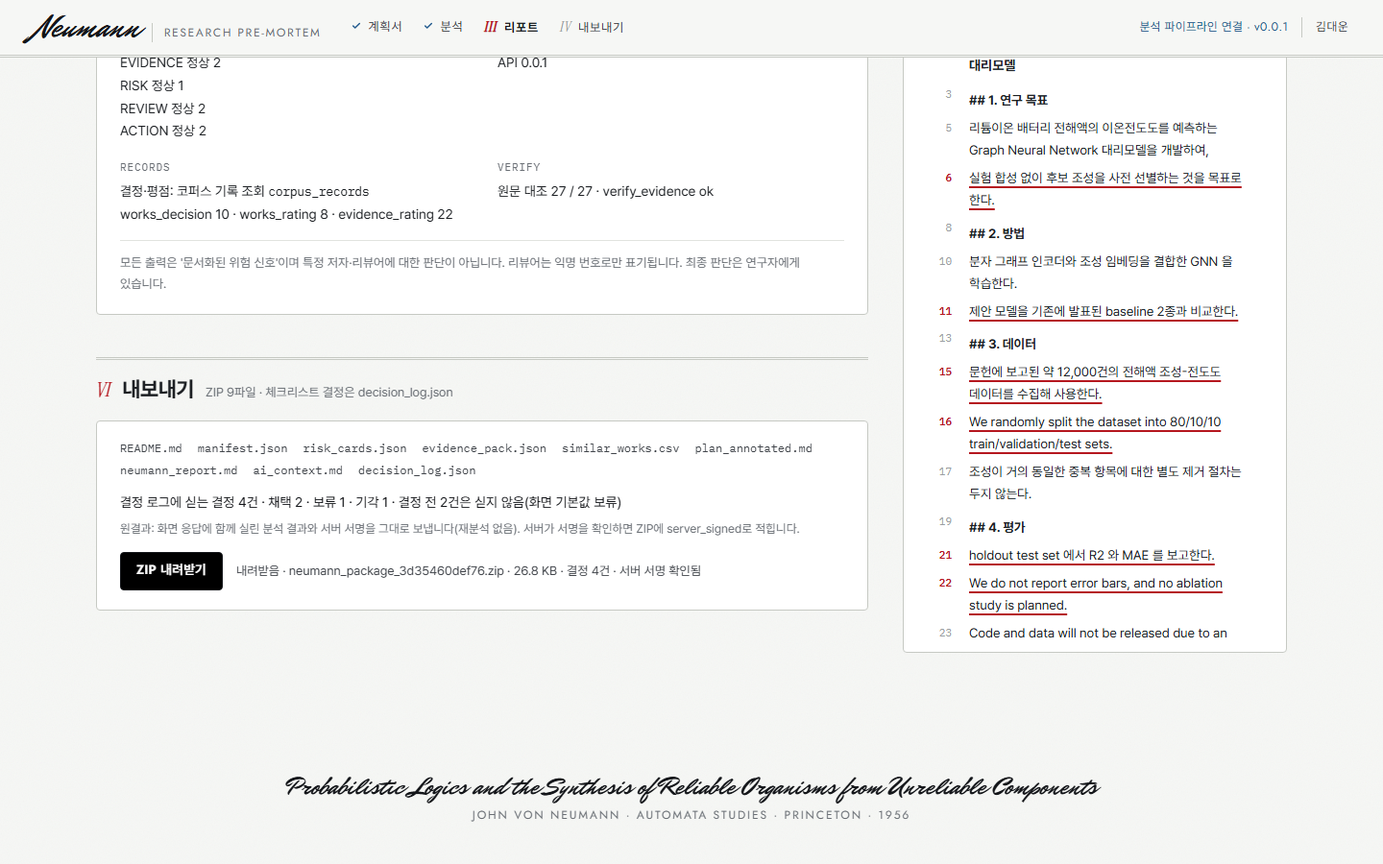
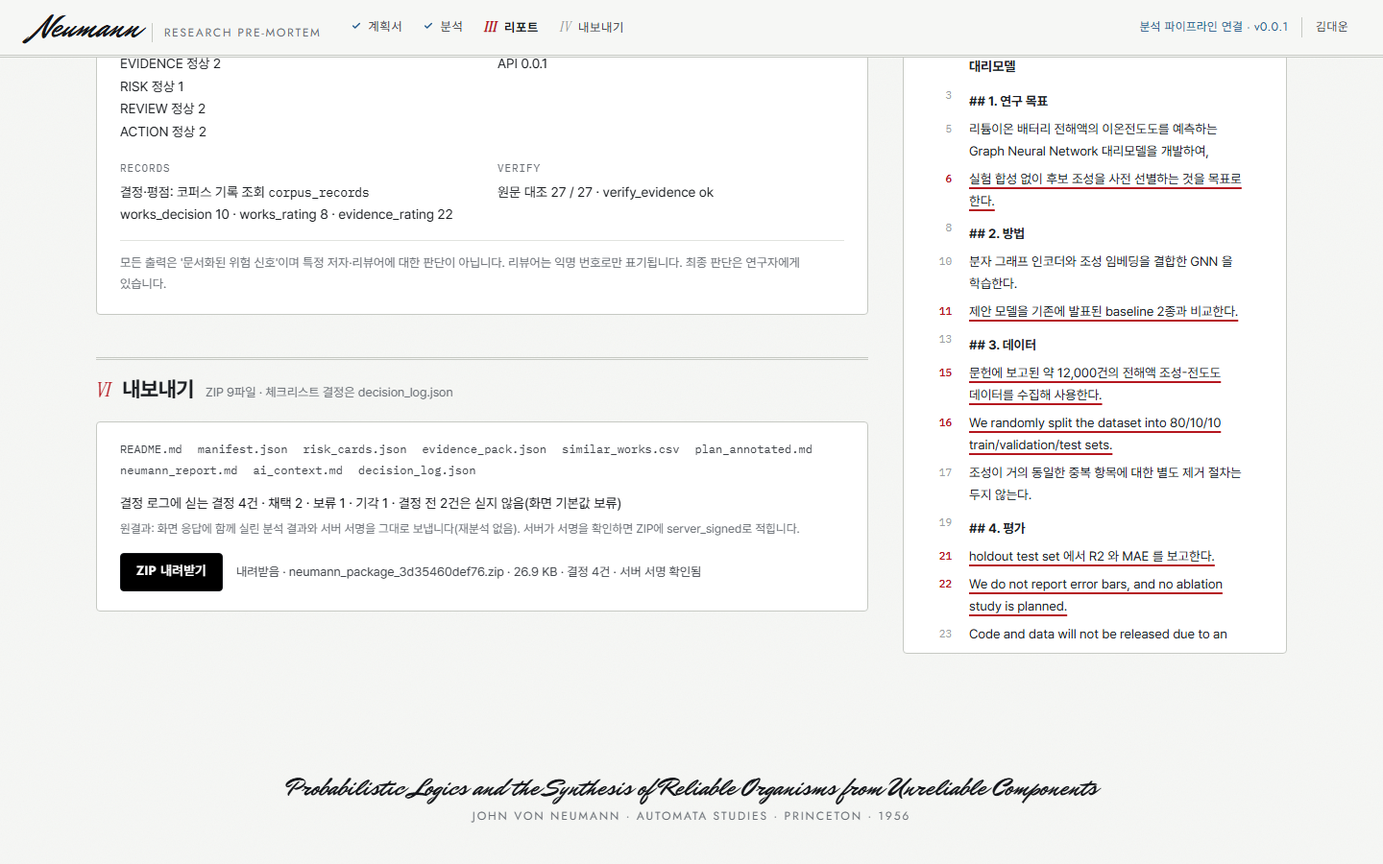
[E4-L2f] generic payload 서명 보강과 내보내기 출처 회귀 확인
targeted: 146 passed, 2 skipped; R1-R4/M10: 12 passed; mock browser passed; full verify pending PM

builder: codex-gpt-6.1-sol

diff --git a/tests/e4/test_payload_signing.py b/tests/e4/test_payload_signing.py
@@ -1,0 +1,100 @@
+"""Regression checks for revision provenance and signature domain separation."""
+
+import hashlib
+import hmac
+import json
+import math
+from pathlib import Path
+
+import pytest
+
+from neumann.api import signing
+from neumann.api.signing import sign_payload, sign_result, verify_payload, verify_result
+
+
+def test_revision_signature_preserves_browser_json_roundtrip():
+    payload = {"plan_id": "plan", "edit": {"text": "근거에 따른 수정", "line": 1.0}}
+    sig = sign_payload("revision", payload)
+    assert verify_payload("revision", {"edit": {"line": 1, "text": "근거에 따른 수정"}, "plan_id": "plan"}, sig)
+
+
+def test_signature_rejects_tampering_and_domain_substitution():
+    payload = {"proposed_text": "원문", "plan_id": "plan"}
+    sig = sign_payload("revision", payload)
+    assert not verify_payload("revision", {**payload, "proposed_text": "위조"}, sig)
+    assert not verify_payload("revised-plan", payload, sig)
+    assert not verify_payload("result", payload, sig)
+    assert not verify_result(payload, sig)
+
+
+@pytest.mark.parametrize("sig", [None, 12, "v1." + "가" * 64, "v1." + "F" * 64, "v2." + "0" * 64])
+def test_malformed_signature_never_raises(sig):
+    assert not verify_payload("revision", {"text": "내용"}, sig)
+
+
+@pytest.mark.parametrize("kind", ["result", "", "../revision", "REVISION", "수정"])
+def test_reserved_or_invalid_domain_cannot_be_signed(kind):
+    with pytest.raises(ValueError):
+        sign_payload(kind, {"text": "내용"})
+
+
+@pytest.mark.parametrize("bad", [math.nan, math.inf, -math.inf, object()])
+def test_invalid_payload_is_not_authenticated(bad):
+    sig = sign_payload("revision", {"text": "내용"})
+    assert not verify_payload("revision", {"value": bad}, sig)
+
+
+def test_non_mapping_payload_is_not_authenticated():
+    sig = sign_payload("revision", {"text": "내용"})
+    assert not verify_payload("revision", ["내용"], sig)
+
+
+@pytest.mark.parametrize("payload", [{1: "내용"}, {"edit": {1: "내용"}}, {"edits": [{1: "내용"}]}])
+def test_non_string_keys_cannot_alias_json_keys(payload):
+    # JSON keys are strings. Coercion must not authenticate a different Python mapping.
+    normal = json.loads(json.dumps(payload, ensure_ascii=False))
+    sig = sign_payload("revision", normal)
+    assert not verify_payload("revision", payload, sig)
+    with pytest.raises(TypeError):
+        sign_payload("revision", payload)
+
+
+def test_valid_result_and_generic_payload_signatures_are_separate():
+    payload = json.loads((Path(__file__).parents[1] / "fixtures" / "premortem_result.json").read_text(encoding="utf-8"))
+    result_sig = sign_result(payload)
+    revision_sig = sign_payload("revision", payload)
+    assert verify_result(payload, result_sig)
+    assert verify_payload("revision", payload, revision_sig)
+    assert result_sig != revision_sig
+    assert not verify_result(payload, revision_sig)
+    assert not verify_payload("revision", payload, result_sig)
+
+
+def test_payload_signature_uses_versioned_domain_and_shared_key(monkeypatch):
+    test_key = b"unit-test-generic-signing-key"
+    monkeypatch.setattr(signing, "_KEY", test_key)
+    payload = {"text": "근거", "line": 1.0}
+    body = 'neumann-revision-v1\n{"line":1,"text":"근거"}'.encode("utf-8")
+    assert sign_payload("revision", payload) == "v1." + hmac.new(test_key, body, hashlib.sha256).hexdigest()
+
+
+def test_generic_signature_key_rotation_invalidates_old_payload(monkeypatch):
+    payload = {"edit": {"text": "내용"}}
+    monkeypatch.setattr(signing, "_KEY", b"unit-test-first-signing-key")
+    sig = sign_payload("revision", payload)
+    monkeypatch.setattr(signing, "_KEY", b"unit-test-second-signing-key")
+    assert not verify_payload("revision", payload, sig)
+    assert verify_payload("revision", payload, sign_payload("revision", payload))
+
+
+@pytest.mark.parametrize("value, changed", [(1.25, 1.26), (True, 1), (None, ""), ([1, 2], [2, 1])])
+def test_payload_values_are_not_erased_by_canonicalisation(value, changed):
+    sig = sign_payload("revision", {"value": value})
+    assert not verify_payload("revision", {"value": changed}, sig)
+
+
+def test_cyclic_payload_fails_closed():
+    payload = {}
+    payload["self"] = payload
+    sig = sign_payload("revision", {"text": "내용"})
+    assert not verify_payload("revision", payload, sig)

diff --git a/tests/e4/test_export_ui.py b/tests/e4/test_export_ui.py
@@ -45,7 +45,7 @@ OUT = ROOT / "docs" / "reports"
 PLAN = ROOT / "tests" / "fixtures" / "plans" / "plan.md"
 SHOT = "E4-L2f_export.png"
 DEFAULT_PORT = 8149
-FORBIDDEN_PORTS = {8010, 8020}
+FORBIDDEN_PORTS = {8010, 8020, 8099}
 VW, VH = 1440, 900
 LOCAL_HOSTS = {"127.0.0.1", "localhost", "::1", "[::1]"}
 MEMO = "표본 크기 근거 보강 · 담당 a.kim@example.org"
@@ -191,12 +191,12 @@ def start_server(port: int) -> subprocess.Popen:
     import httpx
 
     if port in FORBIDDEN_PORTS:
-        raise SystemExit(f"{port}은 쓰지 않는다(8010·8020 금지)")
+        raise SystemExit(f"{port}은 쓰지 않는다(8010·8020·8099 금지)")
     if not _port_free(port):
         raise SystemExit(f"포트 {port}가 이미 쓰이고 있다")
     env = {k: v for k, v in os.environ.items()
            if k not in {"OPENAI_API_KEY", "NEUMANN_LIVE_LLM_OK", "NEUMANN_LIVE_TESTS", "NEUMANN_ALLOW_ASTRA"}}
-    env.update(PYTHONIOENCODING="utf-8", NEUMANN_LLM_PROVIDER="mock",
+    env.update(PYTHONIOENCODING="utf-8", NEUMANN_LLM_PROVIDER="mock", NEUMANN_LIVE_TESTS="0",
                PYTHONPATH=os.pathsep.join([str(ROOT / "src"), str(ROOT)]))
     proc = subprocess.Popen([sys.executable, "-m", "uvicorn", "neumann.api.main:app", "--host", "127.0.0.1",
                              "--port", str(port), "--log-level", "warning"], cwd=ROOT, env=env)
@@ -353,7 +353,8 @@ def run_ui(base: str, out: Path, tmp: Path) -> dict:
             page.wait_for_timeout(200)
             out.mkdir(parents=True, exist_ok=True)
             page.screenshot(path=str(out / SHOT))
-            info["screenshot"] = str((out / SHOT).relative_to(ROOT)).replace("\\", "/")
+            shot_path = (out / SHOT).resolve()
+            info["screenshot"] = str(shot_path.relative_to(ROOT) if shot_path.is_relative_to(ROOT) else shot_path).replace("\\", "/")
 
             with zipfile.ZipFile(zpath) as zf:
                 names = zf.namelist()
@@ -381,6 +382,27 @@ def run_ui(base: str, out: Path, tmp: Path) -> dict:
             assert "## 결정 로그" in report and "행동 `C2`: 기각" in report and "행동 `C3`: 채택" in report
             assert "a.kim@example.org" not in "".join(f.decode("utf-8", "replace") for f in files.values())
             assert not w.errors, w.errors
+
+            # 비ASCII 서명도 실제 서버에서 ZIP을 받고, 화면과 파일에 미확인 출처를 표시한다.
+            def invalid_signature(route, request):
+                body = request.post_data_json
+                body["result_sig"] = "v1." + "é" * 64
+                route.continue_(post_data=json.dumps(body, ensure_ascii=False))
+
+            page.route("**/premortem/package", invalid_signature)
+            with page.expect_download(timeout=120_000) as unverified_dl:
+                page.click("#btnExport")
+            unverified_path = tmp / "unverified.zip"
+            unverified_dl.value.save_as(unverified_path)
+            page.wait_for_function("document.getElementById('expMsg').textContent.indexOf('서버 서명 확인 안 됨') >= 0")
+            info["unverified_msg"] = page.locator("#expMsg").inner_text()
+            with zipfile.ZipFile(unverified_path) as zf:
+                assert json.loads(zf.read("manifest.json"))["result_origin"] == "client_submitted_unverified"
+                assert zf.read("README.md").decode("utf-8").startswith("**주의: 서버가 분석·서명한 결과가 아님.")
+            assert w.posts == ["/premortem/jobs", "/premortem/package", "/premortem/package"], w.posts
+            info["posts_with_unverified"] = list(w.posts)
+            assert not w.errors, w.errors
+            page.unroute("**/premortem/package")
 
             # 서버 오류 문구: textContent로(태그를 만들지 않는다)
             w.allow_4xx = True

diff --git a/src/neumann/api/signing.py b/src/neumann/api/signing.py
@@ -58,7 +58,7 @@ def reset_key() -> None:
     _KEY = _load_key()
 
 
-def _norm(v: Any) -> Any:
+def _norm(v: Any, *, string_keys: bool = False) -> Any:
     if isinstance(v, bool) or v is None or isinstance(v, (int, str)):
         return v
     if isinstance(v, float):
@@ -66,9 +66,11 @@ def _norm(v: Any) -> Any:
             raise ValueError("NaN·무한대는 서명하지 않는다")
         return int(v) if v.is_integer() and abs(v) < 2**53 else v
     if isinstance(v, Mapping):
-        return {str(k): _norm(x) for k, x in v.items()}
+        if string_keys and any(not isinstance(k, str) for k in v):
+            raise TypeError("signed payload keys must be strings")
+        return {str(k): _norm(x, string_keys=string_keys) for k, x in v.items()}
     if isinstance(v, (list, tuple)):
-        return [_norm(x) for x in v]
+        return [_norm(x, string_keys=string_keys) for x in v]
     raise TypeError(f"서명할 수 없는 값: {type(v).__name__}")
 
 
@@ -101,4 +103,36 @@ def verify_result(result: Any, sig: Any) -> bool:
     return hmac.compare_digest(expected.encode("ascii"), sig[len(SIG_VERSION) + 1:].encode("ascii"))
 
 
-__all__ = ["KEY_ENV", "canonical_bytes", "reset_key", "sign_result", "verify_result"]
+def _payload_bytes(kind: str, data: Mapping[str, Any]) -> bytes:
+    """Separate revision signatures from the validated result signature domain."""
+    if not isinstance(kind, str) or not re.fullmatch(r"[a-z][a-z0-9-]{0,31}", kind, re.ASCII) or kind == "result":
+        raise ValueError("invalid payload signature kind")
+    if not isinstance(data, Mapping):
+        raise TypeError("signed payload must be a mapping")
+    body = json.dumps(_norm(data, string_keys=True), ensure_ascii=False, sort_keys=True, separators=(",", ":"), allow_nan=False)
+    return f"neumann-{kind}-v1\n".encode("ascii") + body.encode("utf-8")
+
+
+def sign_payload(kind: str, data: Mapping[str, Any]) -> str:
+    """Sign validated server output with JSON string keys (including nested objects).
+
+    ``kind`` is a lowercase ASCII domain, up to 32 characters, excluding ``result``.
+    Shares the result key and v1 format, but signatures cannot cross domains.
+    Callers must validate their schema and enforce provenance before signing.
+    """
+    digest = hmac.new(_KEY, _payload_bytes(kind, data), hashlib.sha256).hexdigest()
+    return f"{SIG_VERSION}.{digest}"
+
+
+def verify_payload(kind: str, data: Any, sig: Any) -> bool:
+    """Malformed input, domain substitution and altered payloads fail closed."""
+    if not isinstance(sig, str) or len(sig) != 67 or not sig.isascii() or not _SIG_RE.fullmatch(sig):
+        return False
+    try:
+        expected = sign_payload(kind, data)
+    except (TypeError, ValueError, OverflowError, RecursionError):
+        return False
+    return hmac.compare_digest(expected.encode("ascii"), sig.encode("ascii"))
+
+
+__all__ = ["KEY_ENV", "canonical_bytes", "reset_key", "sign_result", "verify_result", "sign_payload", "verify_payload"]

diff --git a/docs/reports/E4-L2f.md b/docs/reports/E4-L2f.md
@@ -1,7 +1,65 @@
-# E4-L2f 보고서 — 화면 "IV 내보내기" 켜기 (+ 검증 보완 F1~F7)
+# E4-L2f 보고서 — 화면 "IV 내보내기" 켜기 (+ 검증 보완 F1~F7, DISP-1 병합, 서명 재검증 R1~R4·M10)
+
+## Codex 인계 보완 — 2026-10-01 00:09 KST
+
+- 역할: builder. actual model: `gpt-6.1-sol`(최신 PM 배정 지시), 커밋 표기 `builder: codex-gpt-6.1-sol`. 독립 `gpt-6-sol` 검증은 아직 받지 않았다.
+- 작업 트리: `C:/Users/User/Desktop/project_neumann/.claude/worktrees/s2-E4-L2f`, 브랜치 `task/E4-L2f`, 인계 HEAD `c3ff65913cfa2b7ee49b5e05319f932af4ea0e38`.
+- 기존 미커밋 보고서·스크린샷·PM generic 서명 추가분을 보존했다. 이 보고서 아래 Claude 측정은 이전 세션 기록이다. 이번 최종 커밋 해시는 최종 인계 결과에 적는다.
+- 모든 실행은 별도 Python 프로세스에서 `NEUMANN_LLM_PROVIDER=mock`, `NEUMANN_LIVE_TESTS=0`, `NEUMANN_LIVE_LLM_OK` 제거, `OPENAI_API_KEY` 제거(복원 없음), 모델·HF 다운로드 offline 설정. pytest의 공통 conftest가 live 허용 값을 `0`으로 닫는다. 실제 OpenAI API 호출 0. 제품 데이터에 Codex 생성물을 쓰지 않았다.
+- 계획서·공유 결과는 읽기만 했다. 공통 문서·계약·models/config·다른 worktree·실서비스 포트(8010/8020/8099)는 수정·호출하지 않았다. 전체 `scripts/verify.py`는 PM 큐에 남겼다.
+
+### 이번 변경
+
+1. PM이 추가한 `sign_payload(kind, data)` / `verify_payload(kind, data, sig)` 이름과 인자 순서를 유지했다. 키·형식은 기존 결과 서명과 같고 도메인은 `neumann-{kind}-v1\n`으로 분리한다. `result` 도메인은 generic 서명에서 금지한다.
+2. generic 서명에서 중첩 객체의 키도 문자열만 허용한다. 기존 구현은 `{1: "내용"}`과 `{"1": "내용"}`을 같은 값으로 인증했다. 최상위·중첩 객체·목록 속 객체 3건을 먼저 실패시킨 뒤 고쳤다. 기존 `sign_result` 정규화 정책은 유지했다.
+3. generic 검사에 정상 브라우저 JSON 왕복, 값 변조, 유효한 PremortemResult와 양방향 교차 서명 거부, 고정 합성 테스트 키의 HMAC 계산, 키 교체, bool/null/목록 순서 차이, 순환 payload 거부를 보강했다. 합성 테스트 키는 실제 비밀값이 아니다.
+4. 브라우저 검사에서 실제 `/premortem/package`에 비ASCII 서명을 보내 화면·ZIP의 미확인 표시를 확인한다. 시험 서버는 8149만 사용하고 live tests를 명시적으로 0으로 준다. 시험 도우미의 금지 포트에 8099를 추가했다.
+5. 검사기의 `--out`이 저장소 밖 허용 경로도 받도록 경로 표기를 고쳤다. 기존 `docs/reports/E4-L2f_export.png`는 덮어쓰지 않았고, 새 검사의 이미지는 `out/codex/e4-l2f-ui-4730405add3048b0b8d5f7cd32b17b5e/E4-L2f_export.png`에 남겼다. 기존·새 이미지에서 내보내기 표시를 육안 확인했다.
+
+### 이번 완료 기준별 실측
+
+Python은 `C:/Users/User/.venvs/neumann/Scripts/python.exe`다. 아래 pytest는 `python -c` 안에서 위 mock 환경을 먼저 설정하고 `pytest.main([...])`으로 실행했다. 캐시는 `-p no:cacheprovider`, tmp fixture는 쓰기 가능한 `out/codex/e4-l2f-tests-<uuid>`를 `--basetemp`로 지정했다.
+
+| 기준 | 실행한 대상·명령 | 실제 출력·결과 |
+|---|---|---|
+| 인계 상태 확인 | `pytest.main(["tests/e4/test_payload_signing.py", "tests/e4/test_export_ui_sign.py", "-q", "-rs"])` | `53 passed, 1 warning in 1.42s`. 기존 pytest cache 쓰기 권한 경고, 다음 실행부터 캐시 비활성화 |
+| generic 키 충돌 반증 | `tests/e4/test_payload_signing.py -q -p no:cacheprovider`(수정 전) | `3 failed, 25 passed in 0.23s`. 정수 키를 문자열 키와 같은 값으로 인증한 3건 |
+| 최종 대상 회귀 | `tests/e4/test_payload_signing.py tests/e4/test_export_ui_sign.py tests/e4/test_webui_gen_labels.py tests/e4/test_display_generator.py tests/e4/test_export_ui.py tests/e4/test_export.py tests/e4/test_e4_view.py tests/e4/test_view_panel.py -q -rs -p no:cacheprovider --basetemp <새 전용경로>` | `146 passed, 2 skipped in 1.59s`. generic 28건 포함. skip은 별도 화면 샷·브라우저 opt-in이며 내보내기 브라우저는 아래에서 직접 실행 |
+| R1~R4·M10 개별 재측정 | `tests/e4/test_export_ui_sign.py -k "r1 or r2 or r3 or r4 or m10" -v -p no:cacheprovider` | `12 passed, 24 deselected in 0.57s`. R1 7종 모두 200·unverified, R2 짧은 키·재기동, R3 화이트리스트 2건, R4 이미지·링크·단계 이름, M10 정수/실수 정규화 |
+| R3 실제 결과 손실 | 기존 `_real_results()` 파일을 계약 검증하고 `test_r3_real_results_lose_no_keys_and_package_unchanged()` 직접 실행 | `R3 valid_results=29 non_result_files=0 dropped_keys=0 package_bytes_unchanged=True` |
+| 서명·출처·세션·재기동 | 최종 대상 회귀의 `test_export_ui_sign.py` | 정상·브라우저 왕복·jobs 가림 후 확인됨. generator·문구·제목·점수·session_id 변조는 미확인. 인용/plan_id 계약 위반은 422. 무작위 키 재기동·키 교체는 무효, 설정 키 재기동은 유지. ZIP 경고·헤더·키 비노출 검사 통과 |
+| 브라우저 1440×900·8149·mock | `python tests/e4/test_export_ui.py --port 8149 --out C:/Users/User/Desktop/project_neumann/out/codex/e4-l2f-ui-4730405add3048b0b8d5f7cd32b17b5e`(동일 안전 프로세스 래퍼, TEMP/TMP도 전용 경로) | exit 0. 정상 POST `["/premortem/jobs", "/premortem/package"]`, `result_origin=server_signed`, ZIP 9파일, 결정 4건(채택 2·보류 1·기각 1). 비ASCII 서명으로 두 번째 package만 호출: `client_submitted_unverified`·README 첫 줄 경고·화면 `서버 서명 확인 안 됨(서버 재기동 등) · ZIP에 경고가 적힘`. 샘플·원결과 없음 비활성, 422 XSS·429 문구 검사 통과 |
+| 시험 서버 종료 | socket으로 8149만 확인 | `8149_listening=False`. 두 UI 시도 모두 자신이 띄운 서버를 finally에서 종료 |
+| diff 형식 | `git diff --check` | exit 0, 출력 없음 |
+
+실행 중 문제를 숨기지 않는다: 첫 확대 pytest는 시스템 TEMP 접근 거부로 `145 passed, 2 skipped, 1 error`였다. 검사나 기대값을 낮추지 않고 전용 `--basetemp`로 다시 실행해 통과했다. 첫 브라우저는 정상 다운로드 뒤 외부 `--out`의 `relative_to(ROOT)`가 ValueError를 내어 exit 1이었다. 시험 서버 종료를 확인한 뒤 경로 처리만 수정하고 전체 브라우저 시나리오를 재실행해 exit 0을 받았다.
+
+첫 파일 지정 `git add`도 worktree 공용 Git index의 `index.lock` 생성 권한으로 막혔다. 승인된 과제 파일 5개만 같은 명령의 권한 확장으로 다시 지정해 스테이징했다. 훅을 우회하지 않는다.
+
+### E3-L2r 서명 API 인계
+
+```python
+from neumann.api.signing import sign_payload, verify_payload
+
+# 서버가 검증·생성한 JSON 객체에만 서명한다.
+signature = sign_payload("revision", validated_payload)
+ok = verify_payload("revision", returned_payload, signature)
+```
+
+`kind`: `[a-z][a-z0-9-]{0,31}`, `result` 제외. payload는 중첩 키가 모두 문자열인 Mapping이며 JSON 값만 사용한다. 반환 서명은 `v1.<소문자 hex 64자>`. 검증할 때 같은 kind와 payload 전체를 넘긴다. 변조·다른 kind·잘못된 서명·비JSON 값·순환 참조는 False다. 스키마·출처 권한은 호출자가 먼저 검사해야 한다. 여러 서버/재기동 간 유지가 필요하면 기존 `NEUMANN_RESULT_HMAC_KEY` 운영 정책을 따른다. L2r/L1e worktree는 변경하지 않았다.
+
+### 못 한 것·다음(PM 인계 5줄)
+
+1. 최신 전체 `scripts/verify.py`는 미실행이며 PM 검증 큐에서 실행한다.
+2. 독립 `gpt-6-sol` 검증 및 판정은 PM이 배정한다. 기존 verify 보고서는 수정하지 않았다.
+3. E3-L2r에서 위 generic API를 연결하고, 스키마/출처를 검증한 출력에만 서명한다.
+4. main 병합·push·tag 및 공통 HANDOFF/QUEUE/decisions 갱신은 PM이 한다.
+5. 실서비스·실제 OpenAI 확인은 수행하지 않았다. 기존 보고서·스크린샷과 새 검증 산출물 위치를 보존해 인계한다.
+
+## 이전 Claude 구축 기록
 
 빌더: claude-opus-5.5 · 브랜치 `task/E4-L2f` · 모든 실행 `NEUMANN_LLM_PROVIDER=mock`(OpenAI 호출 0), 서버 8149만 사용.
-main 병합: E4-L2d(2bd2b58·03503d6), SEC-4(5ed9b45), 최신 29d96ee까지.
+main 병합: E4-L2d(2bd2b58·03503d6), SEC-4(5ed9b45), DISP-1(4753b3d), 최신 4152c58(SEC-6)까지.
 
 ## 무엇을 했나
 
@@ -32,7 +90,8 @@ main 병합: E4-L2d(2bd2b58·03503d6), SEC-4(5ed9b45), 최신 29d96ee까지.
   - 파이썬에서 `build_package`를 직접 부르면 `"in_process"`다. 호출한 코드가 가진 결과이고 API를 거치지 않는다. 기존 E4-L2a 테스트와 동작은 그대로다.
 - **미확인일 때:**
   - README·neumann_report·ai_context **첫 줄**에 경고를 넣는다: "**주의: 서버가 분석·서명한 결과가 아님.** …"
-  - "제품 LLM이 만든 카드", "원문을 오프셋으로 잘라" 같은 서버 보증 문구를 빼고 "결과에 generator=astra로 적힌 카드. 서버 서명이 없어 … 확인하지 못했다"로 쓴다.
+  - "제품 LLM이 만든 카드", "원문을 오프셋으로 잘라" 같은 서버 보증 문구를 뺀다. 생성 방식은 "LLM(결과에 적힌 표기, 미확인)"처럼 표기만 옮기고(모델명 없음), 설명은 "결과에 적힌 생성 방식 표기일 뿐이다. 서버 서명이 없어 … 확인하지 못했다"로 쓴다(DISP-1 병합 뒤, "generator=astra" 인용 삭제).
+  - README·ai_context의 JSON 설명 줄도 미확인 결과에서는 중립 문구("JSON 값 `generator`·`model`은 요청자가 보낸 결과에 적힌 표기다…")로 바꾼다.
   - evidence_pack의 대조 안내도 "서버 서명이 없는 결과다"로 바꾼다.
 - **jobs 가림과의 관계:** jobs 응답은 뷰 전체에 `serving.scrub_ok_payload`(진단 칸 키·경로 가림)를 한 번 더 건다. 그래서 서명 전에 같은 규칙을 원결과에 먼저 적용한다. 두 번째 가림은 값을 바꾸지 않고 서명이 맞는다(테스트).
 
@@ -40,8 +99,12 @@ main 병합: E4-L2d(2bd2b58·03503d6), SEC-4(5ed9b45), 최신 29d96ee까지.
 
 - **F2:** 첫 판 문구 "계약 밖 값은 실리지 않는다"는 틀렸다. extra=forbid는 최상위 필드만 막고, 자유형 dict 칸(manifest·checklist 항목·expected_review·plan_checks 등)은 검증을 통과한다. 정정한 내용:
   - docstring과 이 보고서를 고쳤다.
-  - manifest(pipeline·precomputed 키 + view가 읽는 모델 키)와 checklist 항목(E3 checklist.py 키 + 별칭)은 **화이트리스트**로 남긴다. 뺀 키 이름은 `_status.export.dropped_keys`에 적는다.
-  - 그 밖의 자유형 칸(expected_review·plan_checks 등)은 결과 값 그대로다.
+  - 자유형 칸 전부를 **화이트리스트**로 거른다(R3로 넓힘): manifest·checklist·expected_review·plan_stats·plan_checks·verification·risk_synthesis·field_prior·research_questions·post_status·plan_side_candidates.
+    - 기준: 실제 결과 29건(사전 계산본 3·백테스트 실행 26)과 mock 실행에서 모은 키, 각 칸을 쓰는 코드(E3·retraction), `PostStatus` 필드, view가 읽는 별칭.
+    - 걸러지는 것은 한 단계(최상위 키, 목록이면 항목 키)다. 그 아래 값은 결과 그대로다.
+    - 채우는 코드가 없는 research_questions·plan_side_candidates는 오는 키를 모두 뺀다.
+  - 뺀 키 이름(값 아님)은 `_status.export.dropped_keys`에 적는다.
+  - 실제 결과 29건은 빠지는 키가 0이고, 패키지 출력(생성 시각 고정)이 바이트 단위로 같다(`test_r3_real_results_lose_no_keys_and_package_unchanged`).
 - **F4:**
   - CSV 문자열 칸(work_id·title·venue·url·cited_by)이 `= + - @`·탭·CR로 시작하면 앞에 `'`를 붙인다.
   - 마크다운 4종에 옮기는 결과 문자열의 `& < >`는 HTML 엔티티로 바꾼다. 렌더하면 같은 글자다. 글자 그대로의 인용은 `evidence_pack.json`에 있다.
@@ -56,16 +119,42 @@ main 병합: E4-L2d(2bd2b58·03503d6), SEC-4(5ed9b45), 최신 29d96ee까지.
 - 집계는 다음 틱에 다시 그린다. 그래서 중간 상태("결정 3건")에서 대기가 먼저 풀렸다.
 - 최종 값("결정 4건 · 채택 2 · 보류 1 · 기각 1")을 기다리도록 바꿨다.
 
+### 6. DISP-1 병합(main 4753b3d)
+
+- `export.py` 충돌 8곳을 풀었다. 서명 구조(`_gen_short`·`_gen_desc`·`_gen_label(c, card)`)는 유지하고, 표시 문자열만 `display_generator`로 바꿨다.
+  - 서명 확인·직접 호출: "LLM (모델명)"·"비상 규칙"·"모의(mock)".
+  - 미확인: "LLM(결과에 적힌 표기, 미확인)"·"비상 규칙(결과에 적힌 표기, 미확인)"·"모의(mock, 결과에 적힌 표기, 미확인)".
+- 나머지는 자동 병합됐다: 체크리스트 줄 생성 표시, 예상 심사평 머리 "생성: …"(미확인이면 표기만), ai_context 카드 줄 "생성: …".
+- `index.html`은 자동 병합됐고, 스타일 끝은 L2f 내보내기 블록이 마지막 그대로다(DISP-1 추가 CSS 없음).
+- **사람용 문서의 astra:** 서명 확인·미확인 모두 README·리포트·계획서 주석·ai_context에서 0건이다(`_assert_no_astra`).
+  - 제외: DISP-1이 정한 예외인 JSON 설명 줄(서명 확인 결과만)과 결과 값을 그대로 옮긴 ```json 코드 블록.
+  - 내보내기 화면 문구에도 astra가 없다.
+
+### 7. 서명 재검증 R1~R4·M10
+
+- **R1:** 서명 문자열은 먼저 ASCII·길이 67·`v1.`+소문자 hex 64자(정규식, re.ASCII)인지 보고, 비교는 `hmac.compare_digest(bytes, bytes)`로 한다.
+  - 비ASCII(`é`)·전각 숫자·전각 접두·대문자 hex·공백·줄바꿈 꼬리·길이 초과 7종은 500이 아니라 200 + `client_submitted_unverified`다(회귀 테스트).
+- **R2:** 키가 16바이트 미만이면 쓰지 않고 무작위 키로 바꾸고, 경고 로그 한 줄을 남긴다(키 값·길이 없음). 테스트는 로그에 키가 없는지, 같은 짧은 키로 재기동하면 옛 서명이 무효인지 본다. `.env.example` 주석은 "32자 이상 무작위 값 또는 비움"이다.
+- **R3:** 위 F2 항목.
+- **R4:** `_md_escape`가 HTML 엔티티에 더해 링크·이미지 문법을 무력화한다.
+  - 백슬래시를 두 배로 하고 대괄호 앞에 백슬래시를 붙인다. 그래서 `![…](…)`·`[…](…)`·참조 정의가 렌더되지 않고, 원격 이미지를 불러올 수 없다.
+  - ai_context·README의 단계 이름과 경고 속 카드 id도 이스케이프한다.
+  - 테스트는 마크다운 4종에 "이스케이프되지 않은 `![`·`](`"가 없는지 백슬래시 개수(홀짝)로 확인한다.
+- **M10:** 기존 테스트는 계약 모델이 실수 칸을 float로 되돌려서 정규화가 빠져도 통과했다. 그래서 자유형 칸(manifest `total_s: 12.0`)으로 다시 잰다.
+  - 브라우저 왕복 뒤 12(int)여도 서명이 맞아야 한다. 정규화를 빼면 이 테스트가 실패한다.
+  - 정수가 아닌 값(1.25 → 1.26)은 구별한다.
+  - 2^53 이상은 정수로 바꾸지 않는다.
+
 ## 완료 기준별 측정
 
 | 기준 | 명령 | 결과 |
 |---|---|---|
-| 서명·출처·이스케이프·413 | `NEUMANN_LLM_PROVIDER=mock python -m pytest tests/e4/test_export_ui_sign.py tests/e4/test_export_ui.py tests/e4/test_export.py -q` | `57 passed, 1 skipped` |
+| 서명·출처·이스케이프·413·R1~R4·M10 + DISP-1 | `NEUMANN_LLM_PROVIDER=mock python -W error::SyntaxWarning -m pytest tests/e4/test_export_ui_sign.py tests/e4/test_webui_gen_labels.py tests/e4/test_display_generator.py tests/e4/test_export_ui.py tests/e4/test_export.py tests/e3/test_checklist.py -q` | `109 passed, 2 skipped` (R 테스트 11건은 건너뜀 없이 실행: `-rs -v`로 확인) |
 | 서명 경우별 | 같은 명령 | 정상(브라우저 왕복 포함) → `server_signed`, README 첫 줄 제목 · 변조 5종(generator를 astra로, why 문구, 카드 제목, 점수, session_id) → `client_submitted_unverified`, 첫 줄 경고·서버 문구 없음 · 인용 문구·plan_id 변조는 계약 검증이 422 · 서명 없음·빈 값·형식 오류·다른 버전·가짜 hex → unverified · 재기동(무작위 키) → unverified · 설정 키 재기동 → 유지, 키 교체 → 무효 · 키 값·키 이름·"hmac"이 뷰·ZIP·헤더·로그·/health에 없음 |
-| Playwright 1440×900, jobs 경로, 8149, mock, 끝나면 종료 | `NEUMANN_UI_TESTS=1 NEUMANN_LLM_PROVIDER=mock python -m pytest tests/e4/test_export_ui.py -q -s -k playwright` | `1 passed in 77.53s`. POST `["/premortem/jobs", "/premortem/package"]`(재분석 0), 뒤이어 `8149 not listening` |
+| Playwright 1440×900, jobs 경로, 8149, mock, 끝나면 종료 | `NEUMANN_UI_TESTS=1 NEUMANN_LLM_PROVIDER=mock python -m pytest tests/e4/test_export_ui.py -q -s -k playwright` | `1 passed in 160.30s`(4152c58 병합 뒤, 부하 중). POST `["/premortem/jobs", "/premortem/package"]`(재분석 0), 뒤이어 `8149 not listening` |
 | ZIP 9파일·decision_log | 같은 Playwright | 9파일 `FILE_NAMES` 순서 그대로, `manifest.result_origin == "server_signed"`, `counts.decisions == 4`, 결정은 아래 표 |
 | 비활성·오류 문구 | 같은 Playwright | 결과 없음·샘플·원결과 없음이면 비활성과 사유. 422 `detail`의 `<img onerror>`는 글자로 보임(요소 0), 429 `message`도 그대로 |
-| verify | `NEUMANN_LLM_PROVIDER=mock python scripts/verify.py` (main 29d96ee 병합 뒤) | `1383 passed, 27 skipped` · `verify 통과` |
+| 최신 전체 verify | `python scripts/verify.py` | 이번 Codex 세션은 PM 지시로 미실행. PM 큐에서 측정 필요 |
 
 decision_log.json의 `decisions`(Playwright, plan.md, mock, jobs 경로):
 
